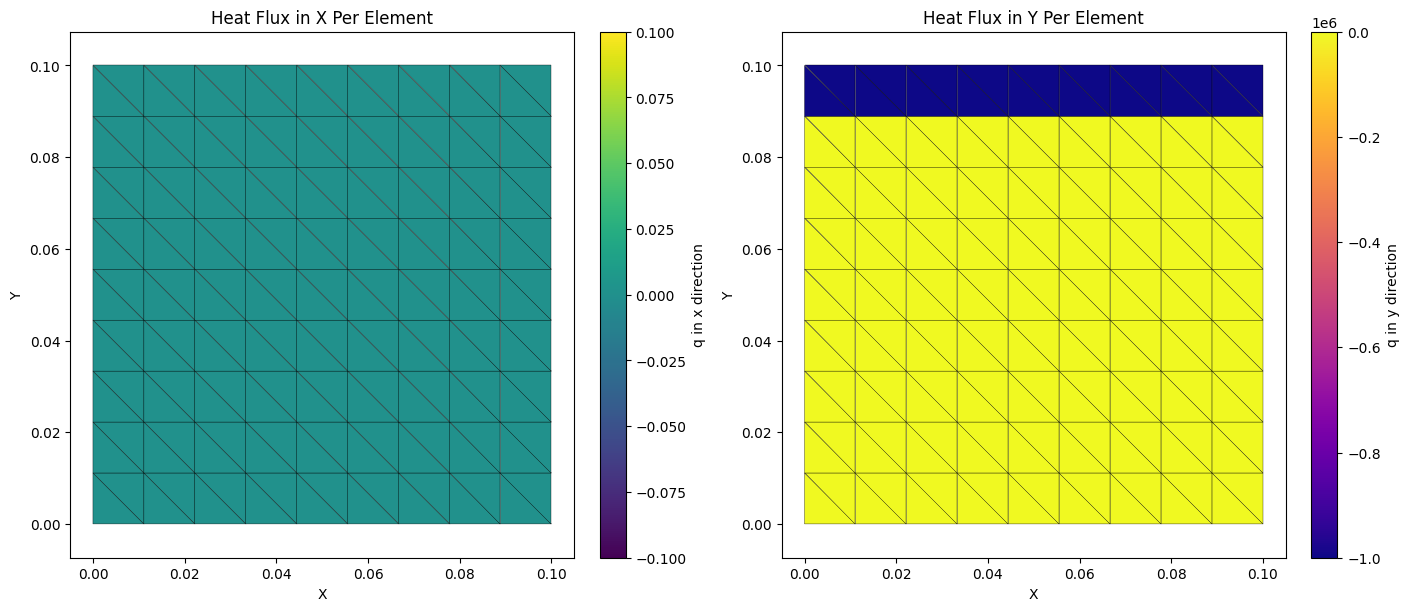
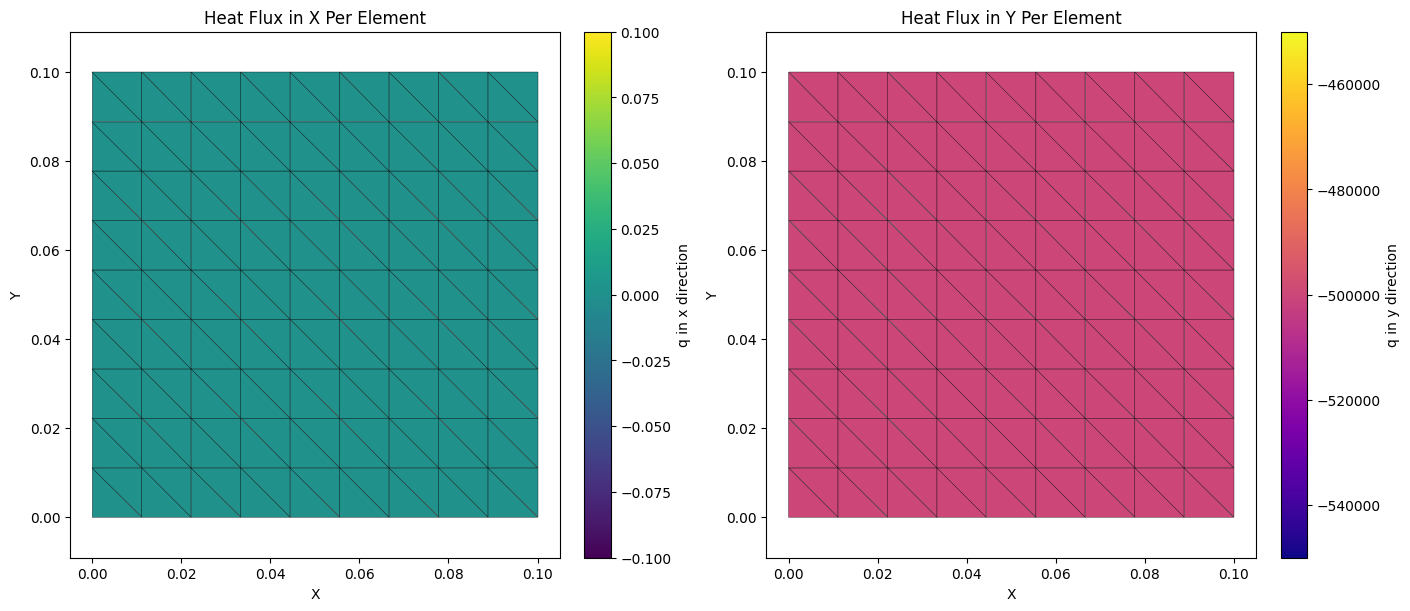
gpt fix for temp gradient

diff --git a/functions.py b/functions.py
@@ -6,7 +6,7 @@ import numpy as np
 import matplotlib.tri as tri
 import os
 
-def compute_local_stiffness_matrix(k,element_id, mesh, Variation=None, id_c=None, ce=None):
+def compute_local_stiffness_matrix(k,element_id, mesh, hz,Variation=None, id_c=None, ce=None):
 
     # k: heat conductivity coefficient
     # tri_id: id of the triangle in the mesh
@@ -37,7 +37,7 @@ def compute_local_stiffness_matrix(k,element_id, mesh, Variation=None, id_c=None
     # see Zienkewicz, page 120 and 125
     for i in range(3):
         for j in range(3):
-            H_e[i][j] = (k / (2*A)) * (b[i]*b[j] + c[i]*c[j]) 
+            H_e[i][j] = (k* hz / (2*A)) * (b[i]*b[j] + c[i]*c[j]) 
 
     return H_e
 
@@ -49,7 +49,7 @@ def compute_free_nodes(H, mesh):
 
     return H_free
 
-def compute_load_vector(H, mesh, q):
+def compute_load_vector(H, mesh, q, hz):
     # f = - integral(N_a * q)
     f = np.zeros(len(mesh.nodes)) # global load vector
     neumann_nodes = mesh.neumann_nodes
@@ -70,28 +70,33 @@ def compute_load_vector(H, mesh, q):
         # find edges on the neumann boundary
         if element.n1 in neumann_nodes and element.n2 in neumann_nodes:
             # edge n1-n2
-
+            print('edge n1-n2', element.id, element.n1, element.n2)
             # edge length
             l = np.sqrt((element.n1.x - element.n2.x)**2 + (element.n1.y - element.n2.y)**2) # length of the edge'
 
             # integral over N_a*q = l/2 * q
-            f_e[0] = l * q * N1(element.n1.x, element.n1.y) # N1 is the basis function for node n1
-            f_e[1] = l * q * N2(element.n2.x, element.n2.y) # N2 is the basis function for node n2
+            #f_e[0] = l * q * N1(element.n1.x, element.n1.y) # N1 is the basis function for node n1
+            #f_e[1] = l * q * N2(element.n2.x, element.n2.y) # N2 is the basis function for node n2
+            f_e[0] =0.5 * l * q * hz
+            f_e[1] = 0.5*l * q * hz
             f_e[2] = 0 # N3 is not on the edge
 
         elif element.n2 in neumann_nodes and element.n3 in neumann_nodes:
             # edge n2-n3
+            print('edge n2-n3', element.id, element.n2, element.n3)
             l = np.sqrt((element.n2.x - element.n3.x)**2 + (element.n2.y - element.n3.y)**2)
             f_e[0] = 0 # N1 is not on the edge
-            f_e[1] = l * q * N2(element.n2.x, element.n2.y) # N2 is the basis function for node n2
-            f_e[2] = l * q * N3(element.n3.x, element.n3.y) # N3 is the basis function for node n3
+            f_e[1] = l * q * N2(element.n2.x, element.n2.y) * hz# N2 is the basis function for node n2
+            f_e[2] = l * q * N3(element.n3.x, element.n3.y) * hz# N3 is the basis function for node n3
 
         elif element.n3 in neumann_nodes and element.n1 in neumann_nodes:
+            print('edge n3-n1', element.id, element.n3, element.n1)
+
             # edge n3-n1
             l = np.sqrt((element.n3.x - element.n1.x)**2 + (element.n3.y - element.n1.y)**2)
-            f_e[0] = l * q * N1(element.n1.x, element.n1.y) # N1 is the basis function for node n1
+            f_e[0] = l * q * N1(element.n1.x, element.n1.y)* hz # N1 is the basis function for node n1
             f_e[1] = 0 # N2 is not on the edge
-            f_e[2] = l * q * N3(element.n3.x, element.n3.y) # N3 is the basis function for node n3
+            f_e[2] = l * q * N3(element.n3.x, element.n3.y)* hz # N3 is the basis function for node n3
 
         f[element.n1.id-1] += f_e[0]
         f[element.n2.id-1] += f_e[1]

diff --git a/main.py b/main.py
@@ -111,7 +111,7 @@ def main():
     for element_id in range(1, len(mesh.elements) + 1):
 
         # Compute local stiffness matrix for each element
-        H_e = compute_local_stiffness_matrix(k, element_id, mesh, Variation)
+        H_e = compute_local_stiffness_matrix(k, element_id, mesh, hz, Variation)
         
         # Assemble global stiffness matrix
         element_nodes_ids = [mesh.elements[element_id-1].n1.id, mesh.elements[element_id-1].n2.id, mesh.elements[element_id-1].n3.id]
@@ -125,22 +125,51 @@ def main():
     print("H:", H)
     H_free = compute_free_nodes(H, mesh)
     print("H_free:", H_free)
-    f = compute_load_vector(H, mesh, q_neumann)
+    f = compute_load_vector(H, mesh, q_neumann, hz)
+    # # # # # 
+    # FIX FROM GPT
+    # Extract coupling matrix between free and Dirichlet nodes
+    dirichlet_ids = [node.id - 1 for node in mesh.dirichlet_nodes]
+    T_d = np.full(len(dirichlet_ids), T_dirichlet)
+
+    # Free nodes (complement of Dirichlet)
+    all_ids = np.arange(len(mesh.nodes))
+    free_ids = np.setdiff1d(all_ids, dirichlet_ids)
+
+    # Partition matrix
+    H_ff = H[np.ix_(free_ids, free_ids)]
+    H_fd = H[np.ix_(free_ids, dirichlet_ids)]
+
+    # Adjust RHS
+    f_free = f[free_ids] - H_fd @ T_d
+
+    # Solve
+    T_free = np.linalg.solve(H_ff, f_free)
+
+    # Reconstruct full solution
+    T = np.zeros(len(mesh.nodes))
+    T[dirichlet_ids] = T_dirichlet
+    T[free_ids] = T_free
+
+    print('T from gpt', T)
+
+    """
     print("f:", f)
     rhs = compute_rhs(H, mesh, f, T_dirichlet)
     print("rhs:", rhs)
     # solve the system of equations
     T_free = np.linalg.solve(H_free, rhs)
-
+    print("T_free:", T_free)
     # set up complete solution vector
     T = np.zeros(len(mesh.nodes)) 
     free_nodes = np.concatenate([mesh.neumann_nodes_inside, mesh.neumann_nodes])
     for i, node in enumerate(free_nodes):
         T[node.id - 1] = T_free[i]
+        print('node', node, 't_free[i]',T_free[i])
     for node in mesh.dirichlet_nodes:
         T[node.id - 1] = T_dirichlet
     print("T:", T)
-
+    """
 
     reaction_forces = compute_reaction_forces(H, mesh, T)
     print("Reaction forces:", reaction_forces)
